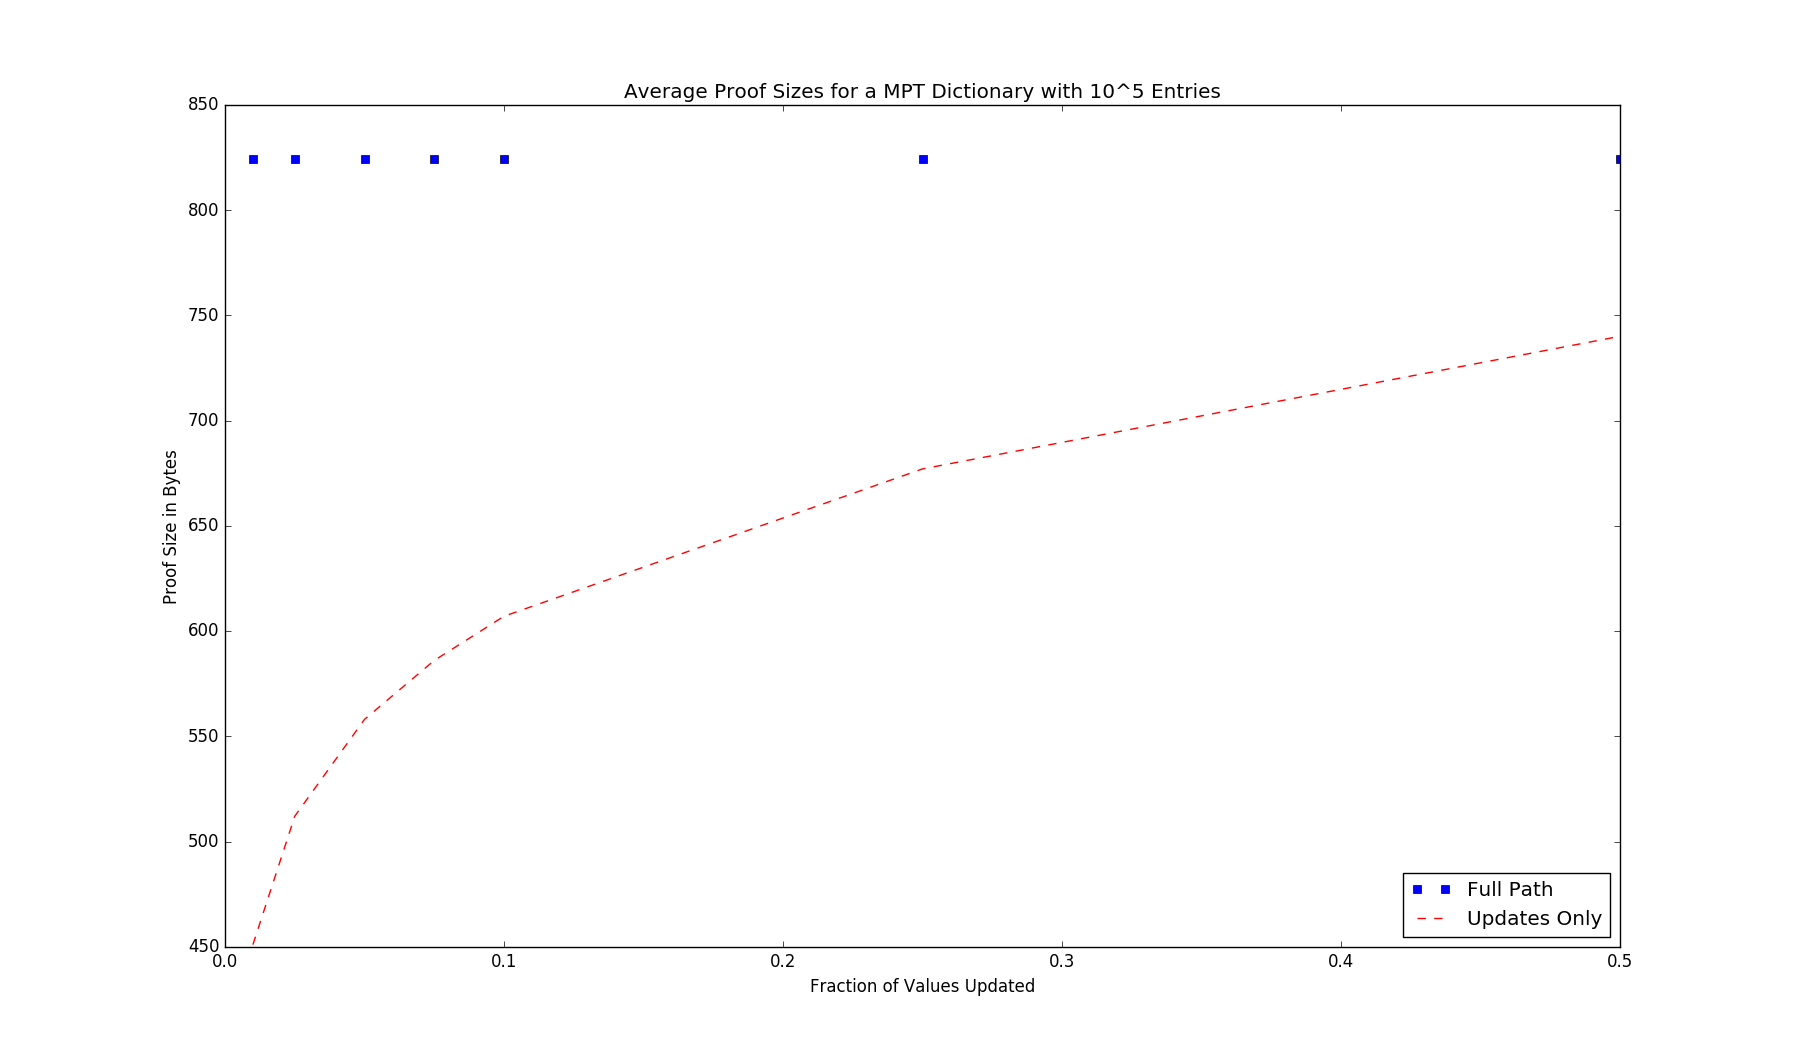
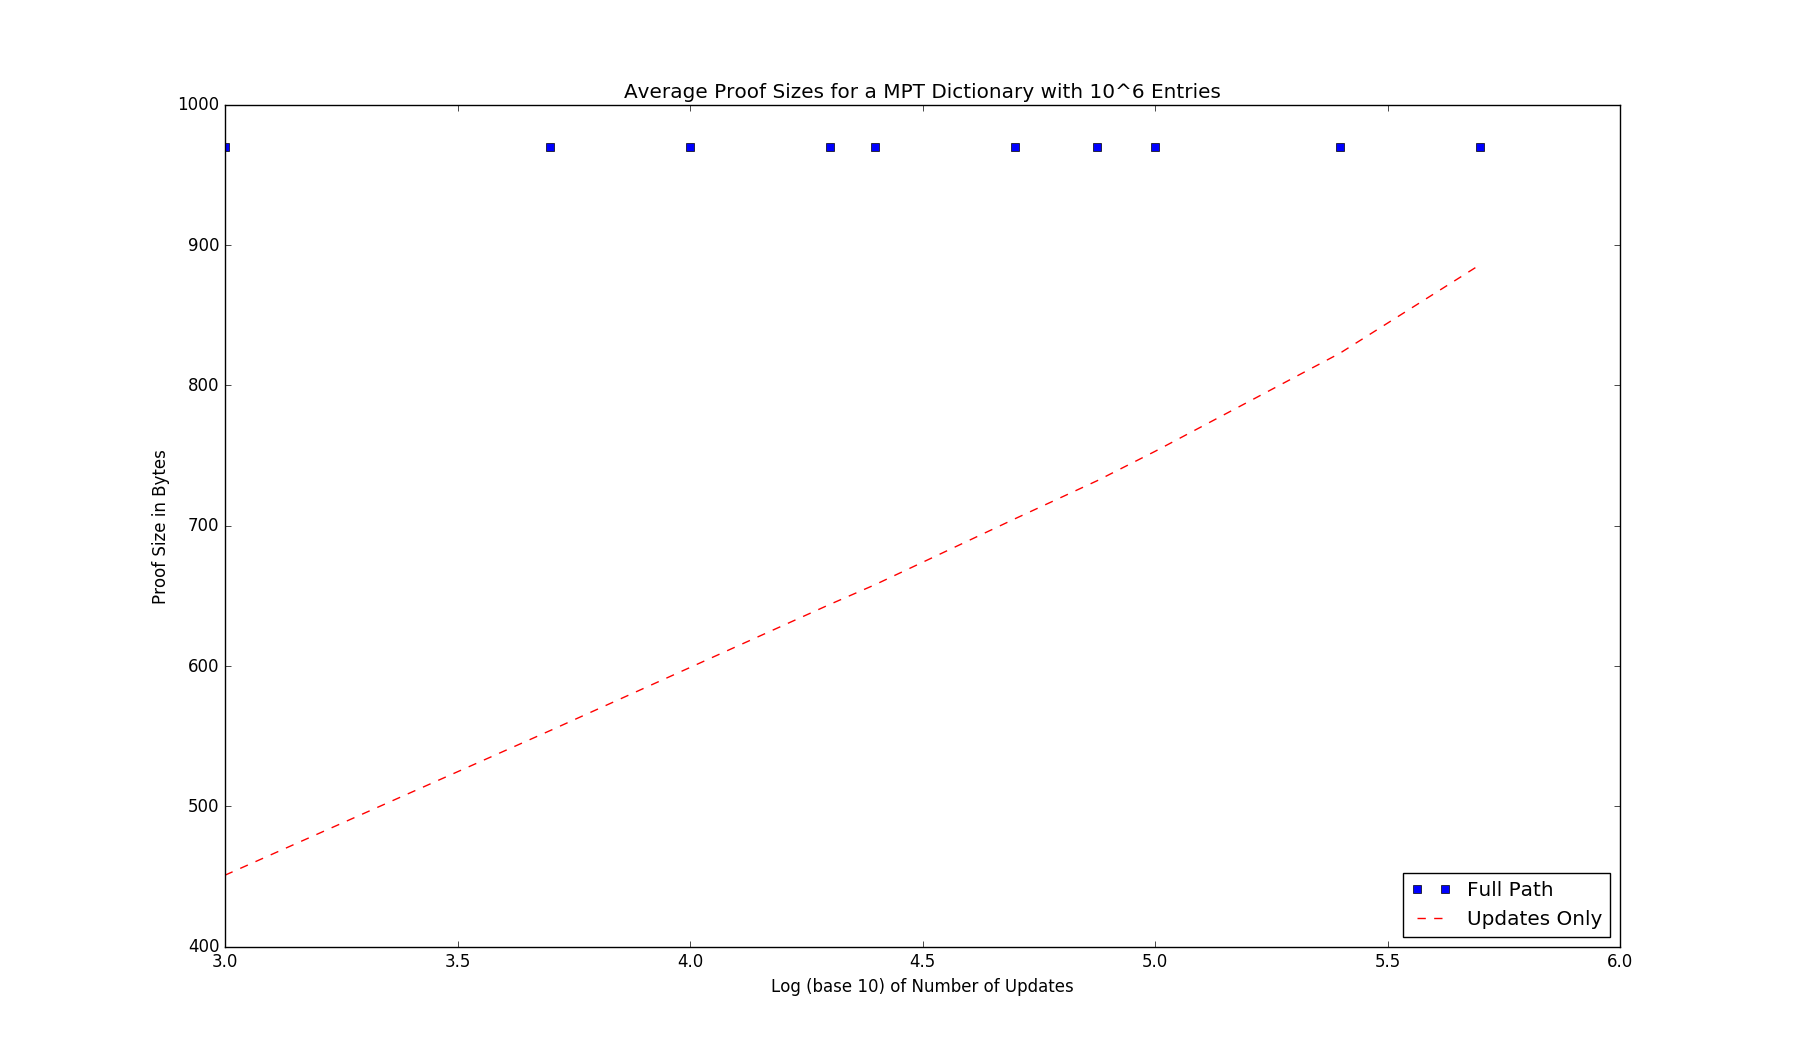
benchmarks updated

diff --git a/data_vis.py b/data_vis.py
@@ -7,16 +7,15 @@ import os
 filename = os.path.join(os.path.dirname(os.getcwd()), "b_verify-merkle-prefix-trie/benchmark-results.csv")
 data = pd.read_csv(filename)
 
-x   = data['updates']/data['n']
-
+x   = np.log10(data['updates'])
 
 y_update_path   = data['update_path_avg']
 y_full_path = data['full_path_avg']
 full_plt_path, = plt.plot(x, y_full_path, 'bs', label="Full Path")
 update_plt_path,  = plt.plot(x, y_update_path, 'r--', label="Updates Only")
 plt.ylabel("Proof Size in Bytes")
-plt.xlabel("Fraction of Values Updated")
-plt.title("Average Proof Sizes for a MPT Dictionary with 10^5 Entries")
+plt.xlabel("Log (base 10) of Number of Updates")
+plt.title("Average Proof Sizes for a MPT Dictionary with 10^6 Entries")
 plt.legend(handles=[full_plt_path, update_plt_path], loc=4)
 
 

diff --git a/README.md b/README.md
@@ -17,11 +17,13 @@ This is a full implementation of <b>Authenticated Dictionaries</b> (<i>a set of 
 # Benchmarks
 We benchmark using a dictionary with 
 
-`10^5 key, value pairs`
+`10^6 key, value pairs`
 
-Here are the results:
+Here are the proof sizes, for various numbers of updates.
 
 ![picture](efficient_update_proofs.png) 
+
+Note that if there are relatively few updates client caching can reduce the size of the proofs by over 50%
 
 You can reproduce these benchmarks using
 
